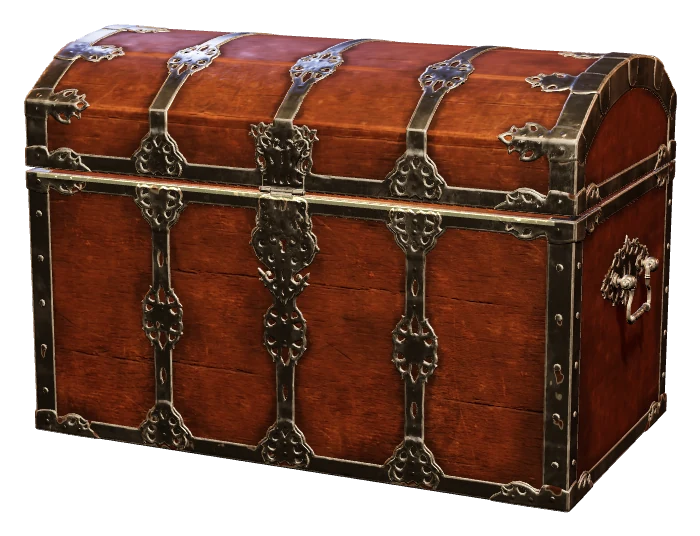
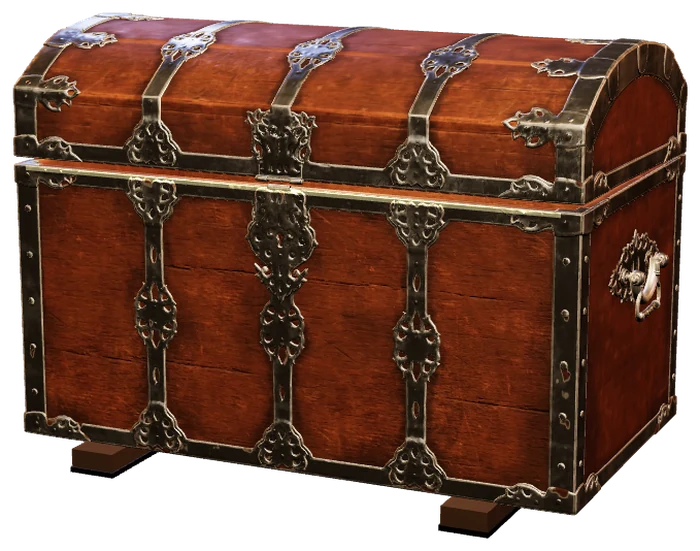
Give each chest tier its own construction, not just a new color
Codex has flagged recolored chests in two reviews as the weakest part of
the visual system. Each tier now has its own proportions and base: a
small coffer with rope loops, a strongbox on iron-shod runners, a lacquer
box on a gilt-edged stand, a wide hoard with iron ring handles, and a
tall reliquary on gilt ball feet. Armory card art is re-rendered from
the same models.

diff --git a/src/components/chest3d/ChestModel.tsx b/src/components/chest3d/ChestModel.tsx
@@ -98,6 +98,106 @@ function rig(scene: THREE.Object3D, theme: ChestTheme) {
 }
 
 /**
+ * Construction by tier, in chest space (body about 0.9 wide, 0.53 deep, lid hinge at 0.42).
+ * scale reshapes the whole chest; lift raises it onto what it stands on.
+ */
+const FORMS: Record<NonNullable<ChestTheme['form']>, { scale: [number, number, number]; lift: number }> = {
+  coffer: { scale: [0.84, 0.82, 0.84], lift: 0 },
+  strongbox: { scale: [1, 1, 1], lift: 0.036 },
+  lacquer: { scale: [1.06, 0.84, 0.92], lift: 0.06 },
+  hoard: { scale: [1.14, 1.02, 1.1], lift: 0 },
+  reliquary: { scale: [0.94, 1.1, 0.94], lift: 0.085 },
+}
+
+/** What the chest stands on and carries by: built in root space, under the scaled body. */
+function buildBase(theme: ChestTheme): THREE.Object3D | null {
+  const form = theme.form
+  if (!form) return null
+  const f = FORMS[form]
+  const [sx, sy, sz] = f.scale
+  const halfW = 0.45 * sx
+  const halfD = 0.265 * sz
+  const g = new THREE.Group()
+  const metal = new THREE.MeshStandardMaterial({ color: theme.metal, metalness: 1, roughness: 0.38 })
+  const iron = new THREE.MeshStandardMaterial({ color: '#2b2622', metalness: 0.85, roughness: 0.5 })
+  if (form === 'coffer') {
+    // Rope carry loops on both ends: a field chest, not a treasury.
+    const rope = new THREE.MeshStandardMaterial({ color: '#8a6a43', roughness: 1, metalness: 0 })
+    for (const s of [-1, 1]) {
+      const loop = new THREE.Mesh(new THREE.TorusGeometry(0.055, 0.011, 10, 28), rope)
+      loop.rotation.y = Math.PI / 2
+      loop.position.set(s * (halfW + 0.004), 0.25 * sy, 0)
+      g.add(loop)
+    }
+  } else if (form === 'strongbox') {
+    // Iron-shod runners under the base and drop handles on the ends.
+    const wood = new THREE.MeshStandardMaterial({ color: '#3a2a1e', roughness: 0.9 })
+    for (const x of [-0.3, 0.3]) {
+      const runner = new THREE.Mesh(new THREE.BoxGeometry(0.07, f.lift, halfD * 2 + 0.06), wood)
+      runner.position.set(x, f.lift / 2, 0)
+      g.add(runner)
+      const shoe = new THREE.Mesh(new THREE.BoxGeometry(0.074, 0.008, halfD * 2 + 0.064), iron)
+      shoe.position.set(x, 0.004, 0)
+      g.add(shoe)
+    }
+    for (const s of [-1, 1]) {
+      const handle = new THREE.Mesh(new THREE.TorusGeometry(0.05, 0.008, 10, 24, Math.PI), metal)
+      handle.rotation.set(0, Math.PI / 2, Math.PI)
+      handle.position.set(s * (halfW + 0.012), f.lift + 0.3 * sy, 0)
+      g.add(handle)
+    }
+  } else if (form === 'lacquer') {
+    // A low black-lacquer stand with a gilt edge.
+    const lacquer = new THREE.MeshStandardMaterial({ color: '#120c0a', roughness: 0.18, metalness: 0.1 })
+    const stand = new THREE.Mesh(new THREE.BoxGeometry(halfW * 2 + 0.1, f.lift - 0.012, halfD * 2 + 0.1), lacquer)
+    stand.position.y = (f.lift - 0.012) / 2 + 0.012
+    g.add(stand)
+    const edge = new THREE.Mesh(new THREE.BoxGeometry(halfW * 2 + 0.104, 0.008, halfD * 2 + 0.104), metal)
+    edge.position.y = f.lift - 0.004
+    g.add(edge)
+    for (const x of [-1, 1]) {
+      for (const z of [-1, 1]) {
+        const foot = new THREE.Mesh(new THREE.BoxGeometry(0.06, 0.012, 0.06), lacquer)
+        foot.position.set(x * (halfW + 0.02), 0.006, z * (halfD + 0.02))
+        g.add(foot)
+      }
+    }
+  } else if (form === 'hoard') {
+    // Heavy iron ring handles: a chest built to be dragged off a field.
+    for (const s of [-1, 1]) {
+      const plate = new THREE.Mesh(new THREE.CylinderGeometry(0.03, 0.03, 0.01, 18), iron)
+      plate.rotation.z = Math.PI / 2
+      plate.position.set(s * (halfW + 0.004), 0.33 * sy, 0)
+      g.add(plate)
+      const ring = new THREE.Mesh(new THREE.TorusGeometry(0.06, 0.012, 10, 28), iron)
+      ring.rotation.y = Math.PI / 2
+      ring.position.set(s * (halfW + 0.014), 0.27 * sy, 0)
+      g.add(ring)
+    }
+  } else if (form === 'reliquary') {
+    // Raised on four gilt ball feet, like a church reliquary.
+    for (const x of [-1, 1]) {
+      for (const z of [-1, 1]) {
+        const ball = new THREE.Mesh(new THREE.SphereGeometry(0.042, 18, 14), metal)
+        ball.position.set(x * (halfW - 0.05), 0.042, z * (halfD - 0.04))
+        g.add(ball)
+        const collar = new THREE.Mesh(new THREE.CylinderGeometry(0.03, 0.036, 0.02, 18), metal)
+        collar.position.set(x * (halfW - 0.05), f.lift - 0.01, z * (halfD - 0.04))
+        g.add(collar)
+      }
+    }
+  }
+  g.traverse((o) => {
+    const mesh = o as THREE.Mesh
+    if (mesh.isMesh) {
+      mesh.castShadow = true
+      mesh.receiveShadow = true
+    }
+  })
+  return g
+}
+
+/**
  * Tier ornaments, in hinge-local space (origin on the hinge line; the lid's crown sits
  * around y 0.2, z 0.26; its front edge around z 0.52).
  */
@@ -167,6 +267,8 @@ export function ChestModel({ theme, anim }: Props) {
   const light = useRef<THREE.PointLight>(null)
   const root = useRef<THREE.Group>(null)
   const rigged = useMemo(() => rig(scene, theme), [scene, theme])
+  const form = theme.form ? FORMS[theme.form] : null
+  const base = useMemo(() => buildBase(theme), [theme])
   const heatColor = useMemo(() => new THREE.Color(), [])
   const tmp = useMemo(() => new THREE.Color(), [])
   // Pool of light inside the chest: radial falloff with a slow shimmer, not a flat card.
@@ -203,7 +305,7 @@ export function ChestModel({ theme, anim }: Props) {
     if (root.current) {
       root.current.rotation.z = anim.rattle * Math.sin(t * 43) * 0.014
       root.current.position.x = anim.rattle * Math.sin(t * 57) * 0.007
-      root.current.position.y = (1 - anim.drop) * 1.8
+      root.current.position.y = (1 - anim.drop) * 1.8 + (form?.lift ?? 0)
     }
     if (lock) {
       const off = anim.lockOff
@@ -236,6 +338,8 @@ export function ChestModel({ theme, anim }: Props) {
 
   return (
     <group ref={root} dispose={null}>
+      {base && <primitive object={base} position={[0, -(form?.lift ?? 0), 0]} />}
+      <group scale={form?.scale ?? [1, 1, 1]}>
       <primitive object={rigged.clone} />
       <primitive object={rigged.hinge} />
       {/* Thin glowing seam just under the lid edge. */}
@@ -248,6 +352,7 @@ export function ChestModel({ theme, anim }: Props) {
         <planeGeometry args={[0.86, 0.46]} />
       </mesh>
       <pointLight ref={light} position={[0, 0.52, 0.05]} decay={2} />
+      </group>
     </group>
   )
 }

diff --git a/src/config/chests.ts b/src/config/chests.ts
@@ -10,7 +10,7 @@ export const CHESTS: Chest[] = [
     tagline: 'Arrowheads, spurs and camp blades, with a long shot at a knight’s sword.',
     price: 50,
     buyback: 0.85,
-    theme: { wood: '#e6d2bc', woodSat: 0.45, woodGain: 1.45, metal: '#8d9298', metalness: 0.8, roughness: 1, glow: '#ffb35c' },
+    theme: { wood: '#e6d2bc', woodSat: 0.45, woodGain: 1.45, metal: '#8d9298', metalness: 0.8, roughness: 1, glow: '#ffb35c', form: 'coffer' },
     bands: [
       B('common', 0.886, 14, 45),
       B('uncommon', 0.0895, 45, 100),
@@ -27,7 +27,7 @@ export const CHESTS: Chest[] = [
     tagline: 'Daggers, axes and sword guards, and a real chance at a blade worth thousands.',
     price: 100,
     buyback: 0.88,
-    theme: { wood: '#d2a478', woodSat: 0.85, woodGain: 1.25, metal: '#e4e9ef', metalness: 0.95, roughness: 0.55, glow: '#ffcf8a' },
+    theme: { wood: '#d2a478', woodSat: 0.85, woodGain: 1.25, metal: '#e4e9ef', metalness: 0.95, roughness: 0.55, glow: '#ffcf8a', form: 'strongbox' },
     bands: [
       B('common', 0.8524, 30, 90),
       B('uncommon', 0.1162, 90, 220),
@@ -44,7 +44,7 @@ export const CHESTS: Chest[] = [
     tagline: 'Sword guards, tantō, katana and kabuto from Japan. 500 boxes only.',
     price: 250,
     buyback: 0.9,
-    theme: { wood: '#5a1c16', woodSat: 0.6, woodGain: 0.6, woodRough: 0.3, metal: '#f0c066', metalness: 1, roughness: 0.42, glow: '#ff6a3d', ornament: 'tassel' },
+    theme: { wood: '#5a1c16', woodSat: 0.6, woodGain: 0.6, woodRough: 0.3, metal: '#f0c066', metalness: 1, roughness: 0.42, glow: '#ff6a3d', ornament: 'tassel', form: 'lacquer' },
     limited: { total: 500, remaining: 137, endsInHours: 41 },
     filter: (item) => item.origin.toLowerCase().includes('japan'),
     bands: [
@@ -63,7 +63,7 @@ export const CHESTS: Chest[] = [
     tagline: 'Rapiers, sabres, helmets and shields. Every pull is a wall piece.',
     price: 1000,
     buyback: 0.9,
-    theme: { wood: '#4a4038', woodSat: 0.25, woodGain: 0.75, woodRough: 0.85, metal: '#d4924a', metalness: 1, roughness: 0.5, glow: '#ffb347', ornament: 'spikes' },
+    theme: { wood: '#4a4038', woodSat: 0.25, woodGain: 0.75, woodRough: 0.85, metal: '#d4924a', metalness: 1, roughness: 0.5, glow: '#ffb347', ornament: 'spikes', form: 'hoard' },
     bands: [
       B('common', 0.8257, 380, 950),
       B('uncommon', 0.137, 950, 1900),
@@ -80,7 +80,7 @@ export const CHESTS: Chest[] = [
     tagline: 'Armor, helmets and swords fit for a royal armory. Grails up to $1.2M.',
     price: 5000,
     buyback: 0.92,
-    theme: { wood: '#b8323a', woodSat: 1.15, woodGain: 0.95, woodRough: 0.6, metal: '#ffd884', metalness: 1, roughness: 0.32, glow: '#ffe1a3', ornament: 'crown' },
+    theme: { wood: '#b8323a', woodSat: 1.15, woodGain: 0.95, woodRough: 0.6, metal: '#ffd884', metalness: 1, roughness: 0.32, glow: '#ffe1a3', ornament: 'crown', form: 'reliquary' },
     bands: [
       B('common', 0.7764, 1800, 4800),
       B('uncommon', 0.1757, 4800, 9000),

diff --git a/src/types/index.ts b/src/types/index.ts
@@ -50,6 +50,8 @@ export interface ChestTheme {
   glow: string
   /** Tier ornament fixed to the lid. */
   ornament?: 'crown' | 'tassel' | 'spikes'
+  /** Construction: proportions and what the chest stands on, so tiers differ in silhouette. */
+  form?: 'coffer' | 'strongbox' | 'lacquer' | 'hoard' | 'reliquary'
 }
 
 export interface Chest {
